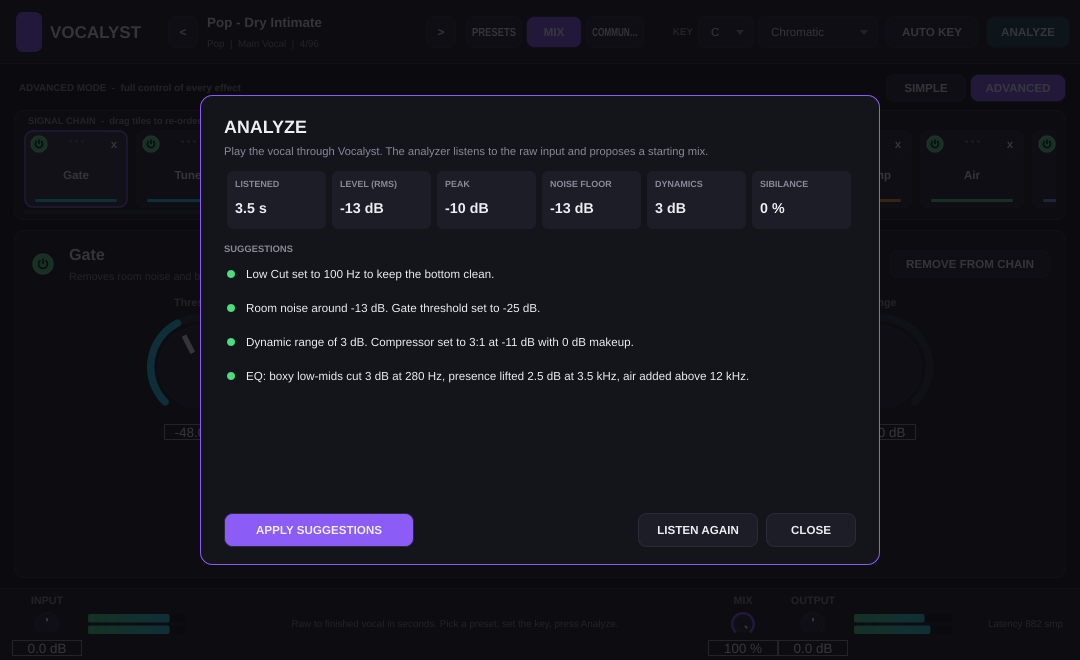
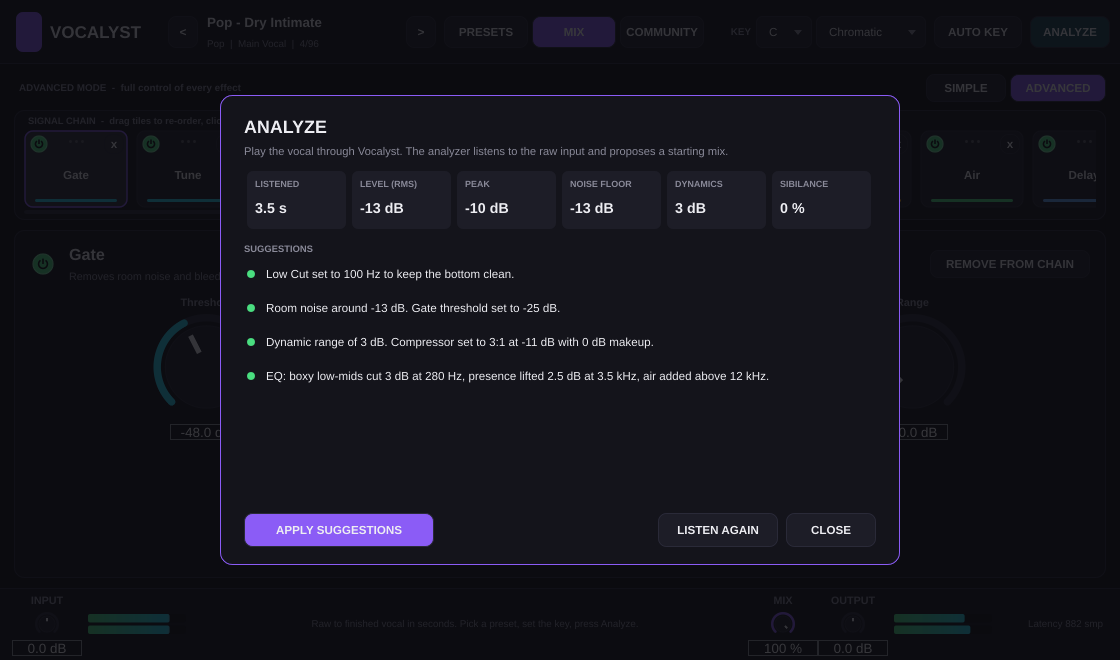
Header layout: fit all tabs and controls at 1120 px; refresh screenshots
Claude-Session: https://claude.ai/code/session_019o7CvKRSV2rczcRJZ2BTyA

diff --git a/Source/Plugin/UI/HeaderBar.cpp b/Source/Plugin/UI/HeaderBar.cpp
@@ -145,25 +145,25 @@ void HeaderBar::resized()
     // preset navigation
     prevBtn.setBounds (r.removeFromLeft (30).reduced (0, 6));
     r.removeFromLeft (4);
-    auto nameArea = r.removeFromLeft (220);
+    auto nameArea = r.removeFromLeft (200);
     presetName.setBounds (nameArea.removeFromTop (nameArea.getHeight() / 2 + 2));
     presetMeta.setBounds (nameArea);
     r.removeFromLeft (4);
     nextBtn.setBounds (r.removeFromLeft (30).reduced (0, 6));
 
     // right side: analyze, auto key, key boxes
-    analyzeBtn.setBounds (r.removeFromRight (84).reduced (0, 6));
+    analyzeBtn.setBounds (r.removeFromRight (80).reduced (0, 6));
     r.removeFromRight (8);
-    autoKeyBtn.setBounds (r.removeFromRight (92).reduced (0, 6));
+    autoKeyBtn.setBounds (r.removeFromRight (88).reduced (0, 6));
     r.removeFromRight (8);
-    scaleBox.setBounds (r.removeFromRight (120).reduced (0, 6));
+    scaleBox.setBounds (r.removeFromRight (110).reduced (0, 6));
     r.removeFromRight (4);
     keyBox.setBounds (r.removeFromRight (56).reduced (0, 6));
     keyLabel.setBounds (r.removeFromRight (34).reduced (0, 6));
     r.removeFromRight (10);
 
     // tabs centred in the remaining space
-    auto tabs = r.withSizeKeepingCentre (juce::jmin (r.getWidth() - 16, 300), r.getHeight()).reduced (0, 6);
+    auto tabs = r.withSizeKeepingCentre (juce::jmin (r.getWidth() - 12, 300), r.getHeight()).reduced (0, 6);
     const int w = tabs.getWidth() / 3;
     tabPresets.setBounds (tabs.removeFromLeft (w).reduced (2, 0));
     tabMix.setBounds (tabs.removeFromLeft (w).reduced (2, 0));

diff --git a/Source/Plugin/UI/VocalystLookAndFeel.cpp b/Source/Plugin/UI/VocalystLookAndFeel.cpp
@@ -107,7 +107,7 @@ void VocalystLookAndFeel::drawButtonText (juce::Graphics& g, juce::TextButton& b
     bool active = b.getToggleState();
     if (auto* pill = dynamic_cast<PillButton*> (&b)) active = active || pill->isActive();
     g.setColour (active ? juce::Colours::white : colours::text().withAlpha (b.isEnabled() ? 1.f : 0.4f));
-    g.drawFittedText (b.getButtonText(), b.getLocalBounds().reduced (6, 0), juce::Justification::centred, 1);
+    g.drawFittedText (b.getButtonText(), b.getLocalBounds().reduced (3, 0), juce::Justification::centred, 1);
 }
 
 void VocalystLookAndFeel::drawToggleButton (juce::Graphics& g, juce::ToggleButton& b, bool highlighted, bool)

diff --git a/Source/Plugin/VocalystEditor.h b/Source/Plugin/VocalystEditor.h
@@ -22,7 +22,7 @@ public:
     void setSimpleMode (bool simple);
     void openAnalyze() { analyze.open(); }
 
-    static constexpr int defaultWidth = 1080, defaultHeight = 660;
+    static constexpr int defaultWidth = 1120, defaultHeight = 660;
 
 private:
     VocalystProcessor& vocalystProcessor;
